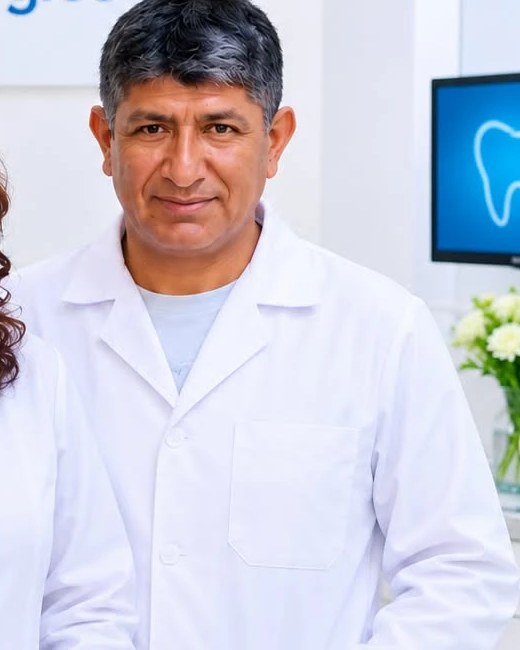
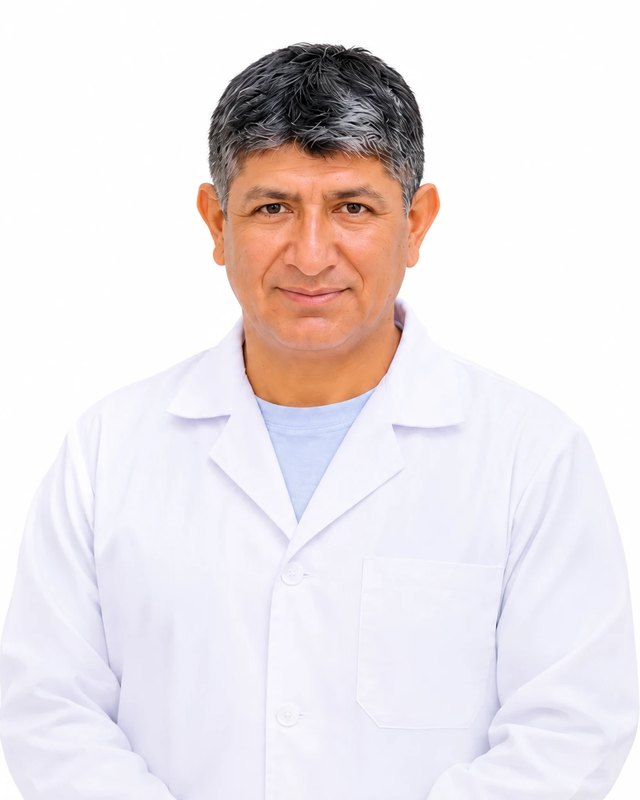
Retratos nuevos de los doctores y fotos reales con pacientes

diff --git a/index.html b/index.html
@@ -162,7 +162,7 @@
         </div>
         <figure class="hero__foto">
           <div class="hero__marco">
-            <img src="media/conversacion.jpg" alt="Odontólogo conversando con una paciente en el consultorio" width="1400" height="1050" fetchpriority="high" data-parallax="0.08">
+            <img src="media/r-roxana-paciente.jpg" alt="La Dra. Roxana atendiendo a una paciente en el Centro Odontológico Yenmar" width="1400" height="933" fetchpriority="high" data-parallax="0.08">
           </div>
           <figcaption class="estado" data-estado>
             <span class="estado__punto"></span><span data-estado-txt>Horario de atención</span>
@@ -192,7 +192,7 @@
           <ol class="panel__lista" role="tablist" aria-label="Servicios" data-lista></ol>
           <div class="panel__vista" role="tabpanel" data-vista aria-live="polite">
             <div class="panel__marco">
-              <img data-vista-img src="media/diagnostico.jpg" alt="" width="1400" height="933">
+              <img data-vista-img src="media/r-ivan-atiende.jpg" alt="" width="1400" height="933">
             </div>
             <div class="panel__info">
               <h3 data-vista-titulo></h3>
@@ -321,7 +321,7 @@
     <section class="visita" id="visita" data-gotita-dice="Primero te revisan con calma, sin sustos.">
       <div class="wrap visita__in">
         <figure class="visita__foto" data-anim="revela">
-          <img src="media/g-revision.jpg" alt="Odontóloga mostrando un espejo a su paciente durante la evaluación" width="1200" height="800" loading="lazy" data-parallax="0.06">
+          <img src="media/r-yenny-espejo.jpg" alt="La Dra. Yenny mostrando un espejo a su paciente durante la evaluación" width="1171" height="1343" loading="lazy" data-parallax="0.06">
         </figure>
         <div class="visita__txt" data-anim>
           <h2>Tu primera visita, sin sorpresas.</h2>
@@ -354,11 +354,11 @@
           <figure><img src="media/g-familia.jpg" alt="Madre e hija sonriendo abrazadas" loading="lazy" width="1200" height="800"></figure>
           <figure class="alta"><img src="media/g-nino-cepillo.jpg" alt="Niña sonriendo mientras se cepilla" loading="lazy" width="1200" height="1800"></figure>
           <figure><img src="media/alineadores.jpg" alt="Joven colocándose un alineador transparente" loading="lazy" width="1400" height="933"></figure>
-          <figure class="alta"><img src="media/g-dentista.jpg" alt="Odontóloga sonriendo con los brazos cruzados" loading="lazy" width="1200" height="1697"></figure>
-          <figure><img src="media/ninos.jpg" alt="Odontólogo revisando los dientes de un niño" loading="lazy" width="1400" height="932"></figure>
+          <figure class="alta"><img src="media/r-ivan-charla.jpg" alt="El Dr. Iván conversando con una paciente" loading="lazy" width="860" height="1400"></figure>
+          <figure><img src="media/r-yenny-nino.jpg" alt="La Dra. Yenny revisando los dientes de un niño" loading="lazy" width="1400" height="931"></figure>
           <figure><img src="media/g-sonrisa-nino.jpg" alt="Niño riendo" loading="lazy" width="1200" height="675"></figure>
           <figure class="alta"><img src="media/g-control.jpg" alt="Odontólogo revisando a una paciente" loading="lazy" width="1200" height="1800"></figure>
-          <figure><img src="media/g-equipo.jpg" alt="Equipo dental atendiendo a una paciente sonriente" loading="lazy" width="1200" height="802"></figure>
+          <figure><img src="media/r-ivan-atiende.jpg" alt="El Dr. Iván atendiendo a una paciente" loading="lazy" width="1367" height="1150"></figure>
         </div>
       </div>
     </section>
@@ -439,7 +439,7 @@
     <section class="cierre" data-gotita-dice="¡Nos vemos en tu cita!">
       <div class="wrap cierre__in">
         <figure class="cierre__foto" data-anim="revela">
-          <img src="media/sonrisa.jpg" alt="Mujer sonriendo" width="1400" height="933" loading="lazy">
+          <img style="object-position: 50% 22%" src="media/r-yenny-paciente.jpg" alt="La Dra. Yenny revisando a una paciente sonriente" width="1400" height="933" loading="lazy">
         </figure>
         <div class="cierre__txt" data-anim>
           <h2>Tu próxima sonrisa empieza con una evaluación.</h2>

diff --git a/main.js b/main.js
@@ -1,7 +1,7 @@
 const SERVICIOS = [
   {
-    id: 'evaluacion', nombre: 'Evaluación y diagnóstico', img: 'diagnostico',
-    alt: 'Odontólogo revisando radiografías dentales',
+    id: 'evaluacion', nombre: 'Evaluación y diagnóstico', img: 'r-ivan-atiende',
+    alt: 'El Dr. Iván evaluando a una paciente',
     desc: 'El punto de partida: revisamos dientes, encías y mordida, y te damos un plan claro con presupuesto antes de empezar cualquier tratamiento.',
     incluye: ['Examen clínico completo', 'Radiografías si hacen falta', 'Plan de tratamiento y presupuesto'],
     dur: '30 a 40 minutos',
@@ -49,8 +49,8 @@ const SERVICIOS = [
     dur: '45 a 90 minutos',
   },
   {
-    id: 'ninos', nombre: 'Odontopediatría', img: 'ninos',
-    alt: 'Odontólogo revisando los dientes de un niño',
+    id: 'ninos', nombre: 'Odontopediatría', img: 'r-yenny-nino',
+    alt: 'La Dra. Yenny revisando los dientes de un niño',
     desc: 'Atención para los más pequeños con paciencia y sin apuros, para que sus primeras visitas al dentista sean una buena experiencia.',
     incluye: ['Control y limpieza', 'Sellantes y flúor', 'Curaciones de dientes de leche'],
     dur: '30 a 45 minutos',

diff --git a/README.md b/README.md
@@ -5,7 +5,7 @@ Sitio estático (HTML/CSS/JS). Vista previa: config `dental-web` en `E:\codex\.c
 - `negocio.js`: nombre, WhatsApp, **turnos** (mañana, tarde y noche) y **odontólogos** (`DOCTORES`: nombre, foto, funciones y turnos fijos por día). El horario general de la clínica se arma solo con los turnos de los doctores.
 - `main.js`: servicios (`SERVICIOS`), mensajes rápidos de WhatsApp (`CHIPS`), sección Equipo y la reserva.
 - La reserva va así: odontólogo → servicio (solo los que realiza) → día → hora. Solo salen los días y horas en que atiende ese doctor, sin las que ya tiene ocupadas. La solicitud se envía por WhatsApp.
-- Colores y logo tomados del logo YENMAR (`media/logo.png`, `logo-blanco.png`, `logo-yenmar.png`). Fotos de doctores: `media/doc-1..3.jpg` (recortadas de `equipo.jpg`).
+- Colores y logo tomados del logo YENMAR (`media/logo.png`, `logo-blanco.png`, `logo-yenmar.png`). Retratos de doctores: `media/doc-1..3.jpg`; fotos reales con pacientes: `media/r-*.jpg`.
 
 ## Por confirmar con el cliente
 
@@ -20,7 +20,7 @@ Sitio estático (HTML/CSS/JS). Vista previa: config `dental-web` en `E:\codex\.c
 - Firebase: proyecto `clinica-dental-raiz` (cuenta de Diego). Registro público desactivado.
 - Para dar acceso a un doctor:
   1. Firebase → Authentication → Users → Add user (su correo y una contraseña).
-  2. Firestore → Data → colección `medicos` → Add document con ID = su correo en minúsculas y campo `doctor` (string) = `d1`, `d2` o `d3` (Roxana, Yenny, Iván).
+  2. Firestore → Data → colección `medicos` → Add document con ID = su correo en minúsculas y campo `doctor` (string) = `d1`, `d2` o `d3`. Los correos reales de los tres doctores ya están vinculados (se ven en Firestore, no se guardan en este repo público).
 - La cuenta `diegoseijas@gmail.com` es administradora (`admin: true`): puede ver la agenda de cualquiera con el selector.
 - Datos: `agenda/{doctor}/ocupado/{fecha}` (público), `agenda/{doctor}/notas/{fecha}` (privado), `solicitudes/{id}`, `medicos/{correo}`. Reglas en `firestore.rules` (pegadas en Firestore → Rules).
 - Vista de prueba sin login (solo en la compu): `http://localhost:6200/panel.html?demo=d2` (añade `&admin` para ver el selector).
